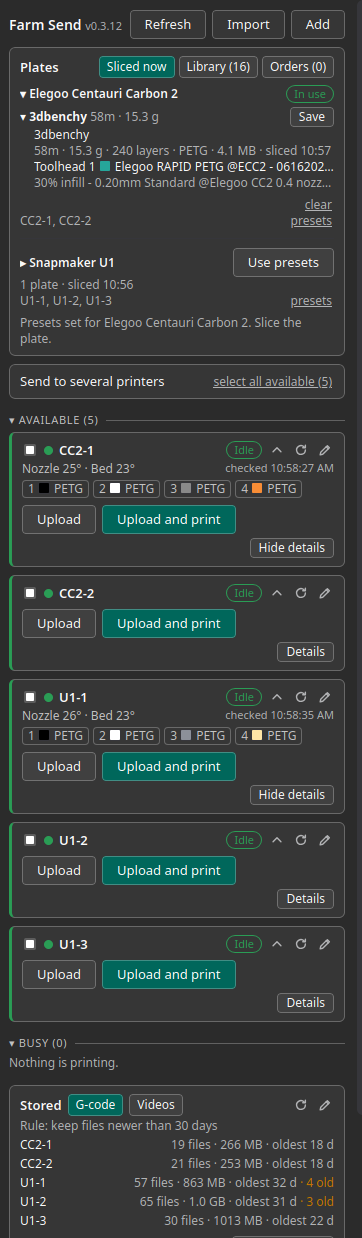
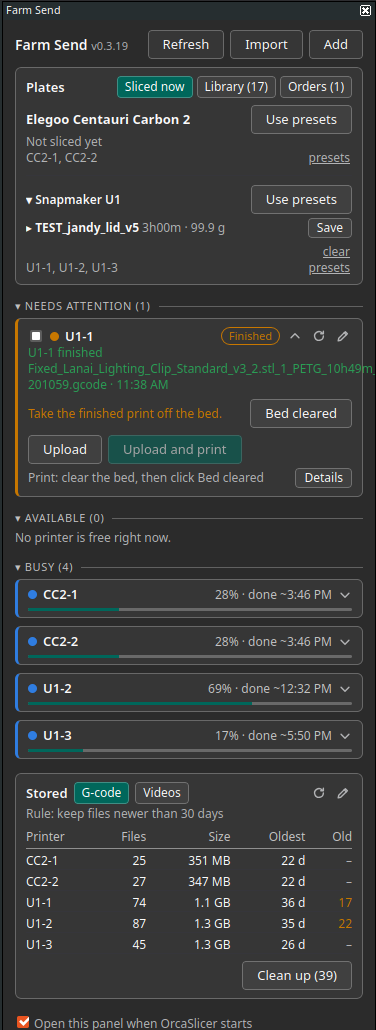
Docs: new screenshots from a real five-printer order
The panel shows a finished U1 waiting for Bed cleared, four printers busy and
the Stored table. The full-window screenshot is the hub's description media.

Changed region(s): [[0.0, 0.0, 1.0, 1.0]]

diff --git a/README.md b/README.md
@@ -2,7 +2,7 @@
 
 A docked panel for small print farms: slice a plate once per printer type, then upload it and start it on several printers at once, with live status for every printer.
 
-<img src="docs/panel.png" alt="Farm Send panel: a 3DBenchy sliced for both printer types, five idle printers, two of them with Details open" width="362">
+<img src="docs/panel.png" alt="Farm Send panel during a real order: U1-1 finished and waiting for Bed cleared, four printers busy with progress and finish times, and the Stored table with 39 old files to clean up" width="376">
 
 - **Elegoo Centauri Carbon 2**: upload and start the print, on several printers at once from one dialog.
 - **Snapmaker U1**: upload and start the print, with bed leveling, flow calibration and time-lapse options.
